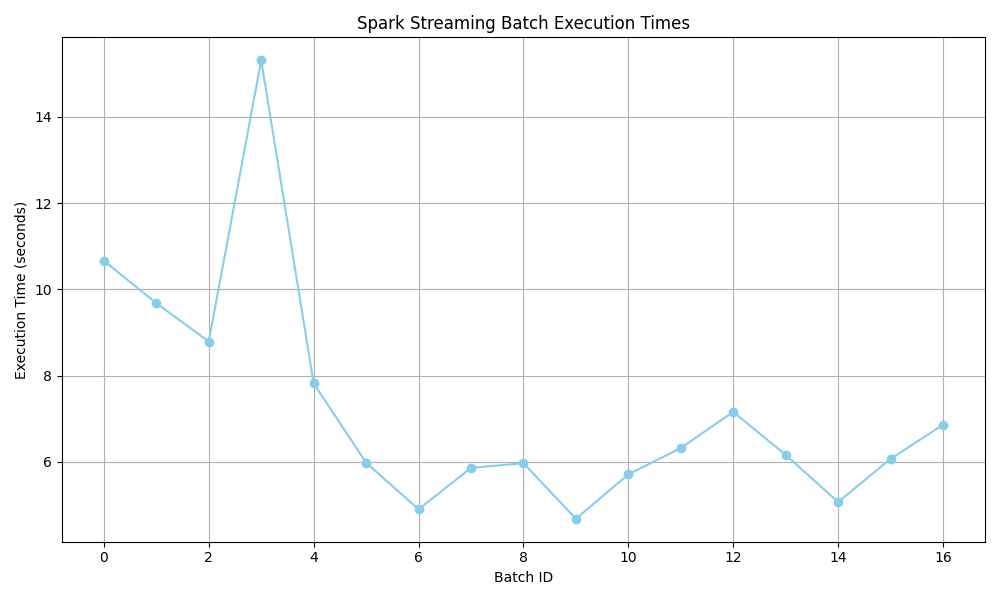
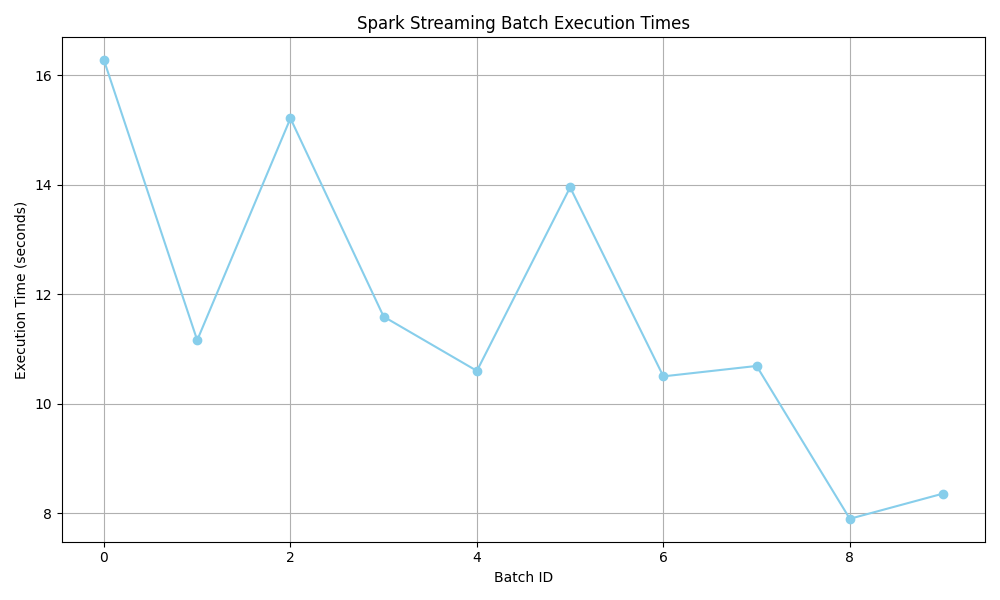
Completion of pipeline

diff --git a/src/consumer/batch_analysis.py b/src/consumer/batch_analysis.py
@@ -1,9 +1,10 @@
 import mysql.connector
 import time
+import psutil
+import os
 
 def execute_batch_queries():
     try:
-        # Connect to MySQL
         conn = mysql.connector.connect(
             host='localhost',
             user='root',
@@ -13,10 +14,13 @@ def execute_batch_queries():
         cursor = conn.cursor()
         print("[INFO] Connected to MySQL.")
 
-        # Start timer
+        process = psutil.Process(os.getpid())
+
+        start_cpu = psutil.cpu_percent(interval=1)
+        mem = process.memory_full_info().rss / (1024 * 1024)  # MB
         start_time = time.time()
 
-        # 1. Language Count
+        # Query
         print("\n[Batch Query 1] Language-wise Tweet Count:")
         cursor.execute("""
             SELECT language, COUNT(*) AS count 
@@ -27,28 +31,13 @@ def execute_batch_queries():
         for row in cursor.fetchall():
             print(f"Language: {row[0]}, Count: {row[1]}")
 
-        # 2. Top Words (Optional - simplistic hashtag simulation)
-        print("\n[Batch Query 2] Most Common Words (excluding stop words):")
-        cursor.execute("SELECT tweet FROM tweets;")
-        tweets = [row[0] for row in cursor.fetchall()]
-        
-        from collections import Counter
-        import re
-
-        stop_words = {"the", "and", "to", "a", "of", "in", "is", "it", "on", "for", "with"}
-        all_words = []
-
-        for tweet in tweets:
-            words = re.findall(r'\b\w+\b', tweet.lower())
-            filtered = [word for word in words if word not in stop_words and len(word) > 2]
-            all_words.extend(filtered)
-
-        counter = Counter(all_words)
-        print(counter.most_common(10))
-
-        # End timer
         end_time = time.time()
+        end_cpu = psutil.cpu_percent(interval=1)
+        mem = process.memory_full_info().rss / (1024 * 1024)  # MB
+
         print(f"\n[INFO] Batch processing completed in {end_time - start_time:.2f} seconds.")
+        print(f"[RESOURCE USAGE] CPU Usage: {(start_cpu + end_cpu) / 2:.1f}%")
+        print(f"[MEMORY] {mem:.2f} MB")
 
     except mysql.connector.Error as err:
         print(f"[ERROR] MySQL Error: {err}")

diff --git a/src/consumer/ss_cons_lang.py b/src/consumer/ss_cons_lang.py
@@ -3,6 +3,10 @@ from pyspark.sql.functions import col, from_json, expr
 from pyspark.sql.types import StructType, StringType
 import mysql.connector
 import time
+import psutil
+
+
+
 # Define schema
 schema = StructType() \
     .add("tweet_id", StringType()) \
@@ -63,6 +67,8 @@ def write_to_mysql(batch_df, batch_id):
         log_message = f"[INFO] Batch {batch_id} processed in {elapsed:.2f} seconds"
         print(log_message)
         print(f"[INFO] Updated language counts: {lang_counts.to_dict('records')}")
+        print(f"CPU Usage: {psutil.cpu_percent()}%")
+        print(f"Memory Usage: {psutil.virtual_memory().percent}%")
         with open("batch_execution_times.log", "a") as f:
             f.write(f"Batch {batch_id}: {elapsed:.2f} seconds\n")
     except mysql.connector.Error as err:

diff --git a/src/kafka_producer.py b/src/kafka_producer.py
@@ -154,7 +154,8 @@ while running:
             print(f"[ERROR] TOP HASHTAGS: {e}")
 
         # Sleep for 5 to 15 seconds
-        time.sleep(random.randint(5, 15))
+        # time.sleep(random.randint(5, 15))
+        time.sleep(5)
 
     except Exception as e:
         print(f"[ERROR] Outer loop: {e}")
